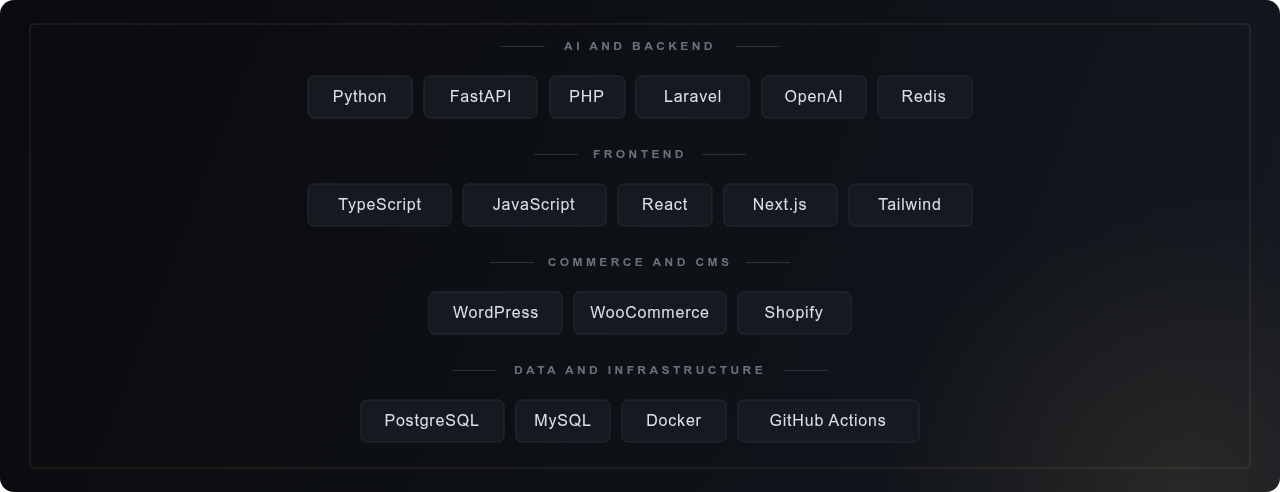
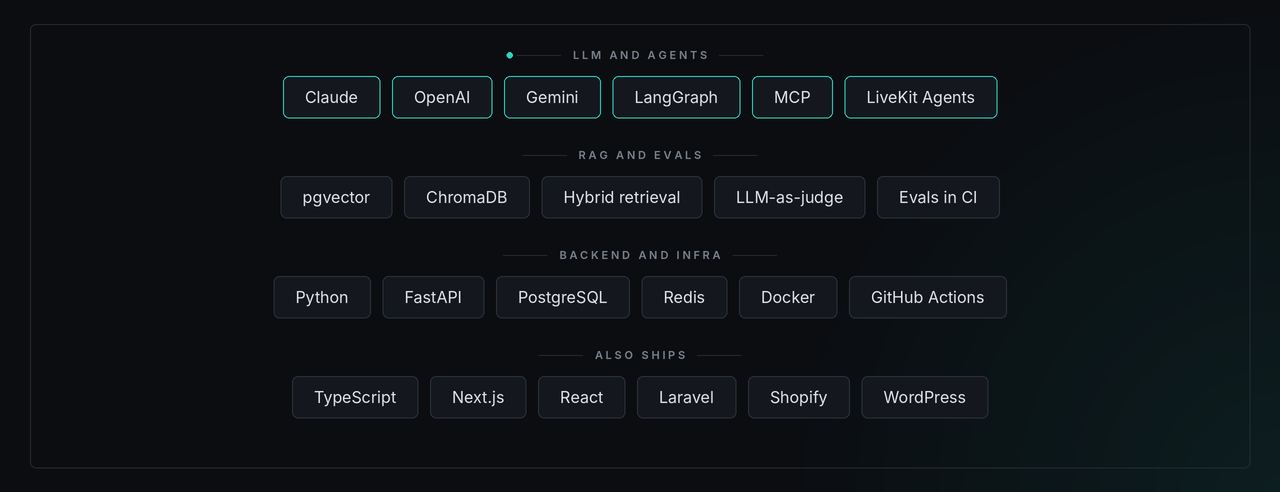
docs: lead the stack image with LLM, agent and eval tooling (#1)

diff --git a/README.md b/README.md
@@ -21,7 +21,7 @@ I am a Senior AI Engineer with 6+ years in production software. I build LLM syst
 
 ## Tech Stack
 
-<img src="stack.png" alt="Tech stack: Python, FastAPI, PHP, Laravel, OpenAI, TypeScript, JavaScript, React, Next.js, Tailwind, WordPress, WooCommerce, Shopify, PostgreSQL, MySQL, Redis, Docker" width="100%" />
+<img src="stack.png" alt="Tech stack. LLM and agents: Claude, OpenAI, Gemini, LangGraph, MCP, LiveKit Agents. RAG and evals: pgvector, ChromaDB, hybrid retrieval, LLM-as-judge, evals in CI. Backend and infra: Python, FastAPI, PostgreSQL, Redis, Docker, GitHub Actions. Also ships: TypeScript, Next.js, React, Laravel, Shopify, WordPress." width="100%" />
 
 ## Featured Projects
 
